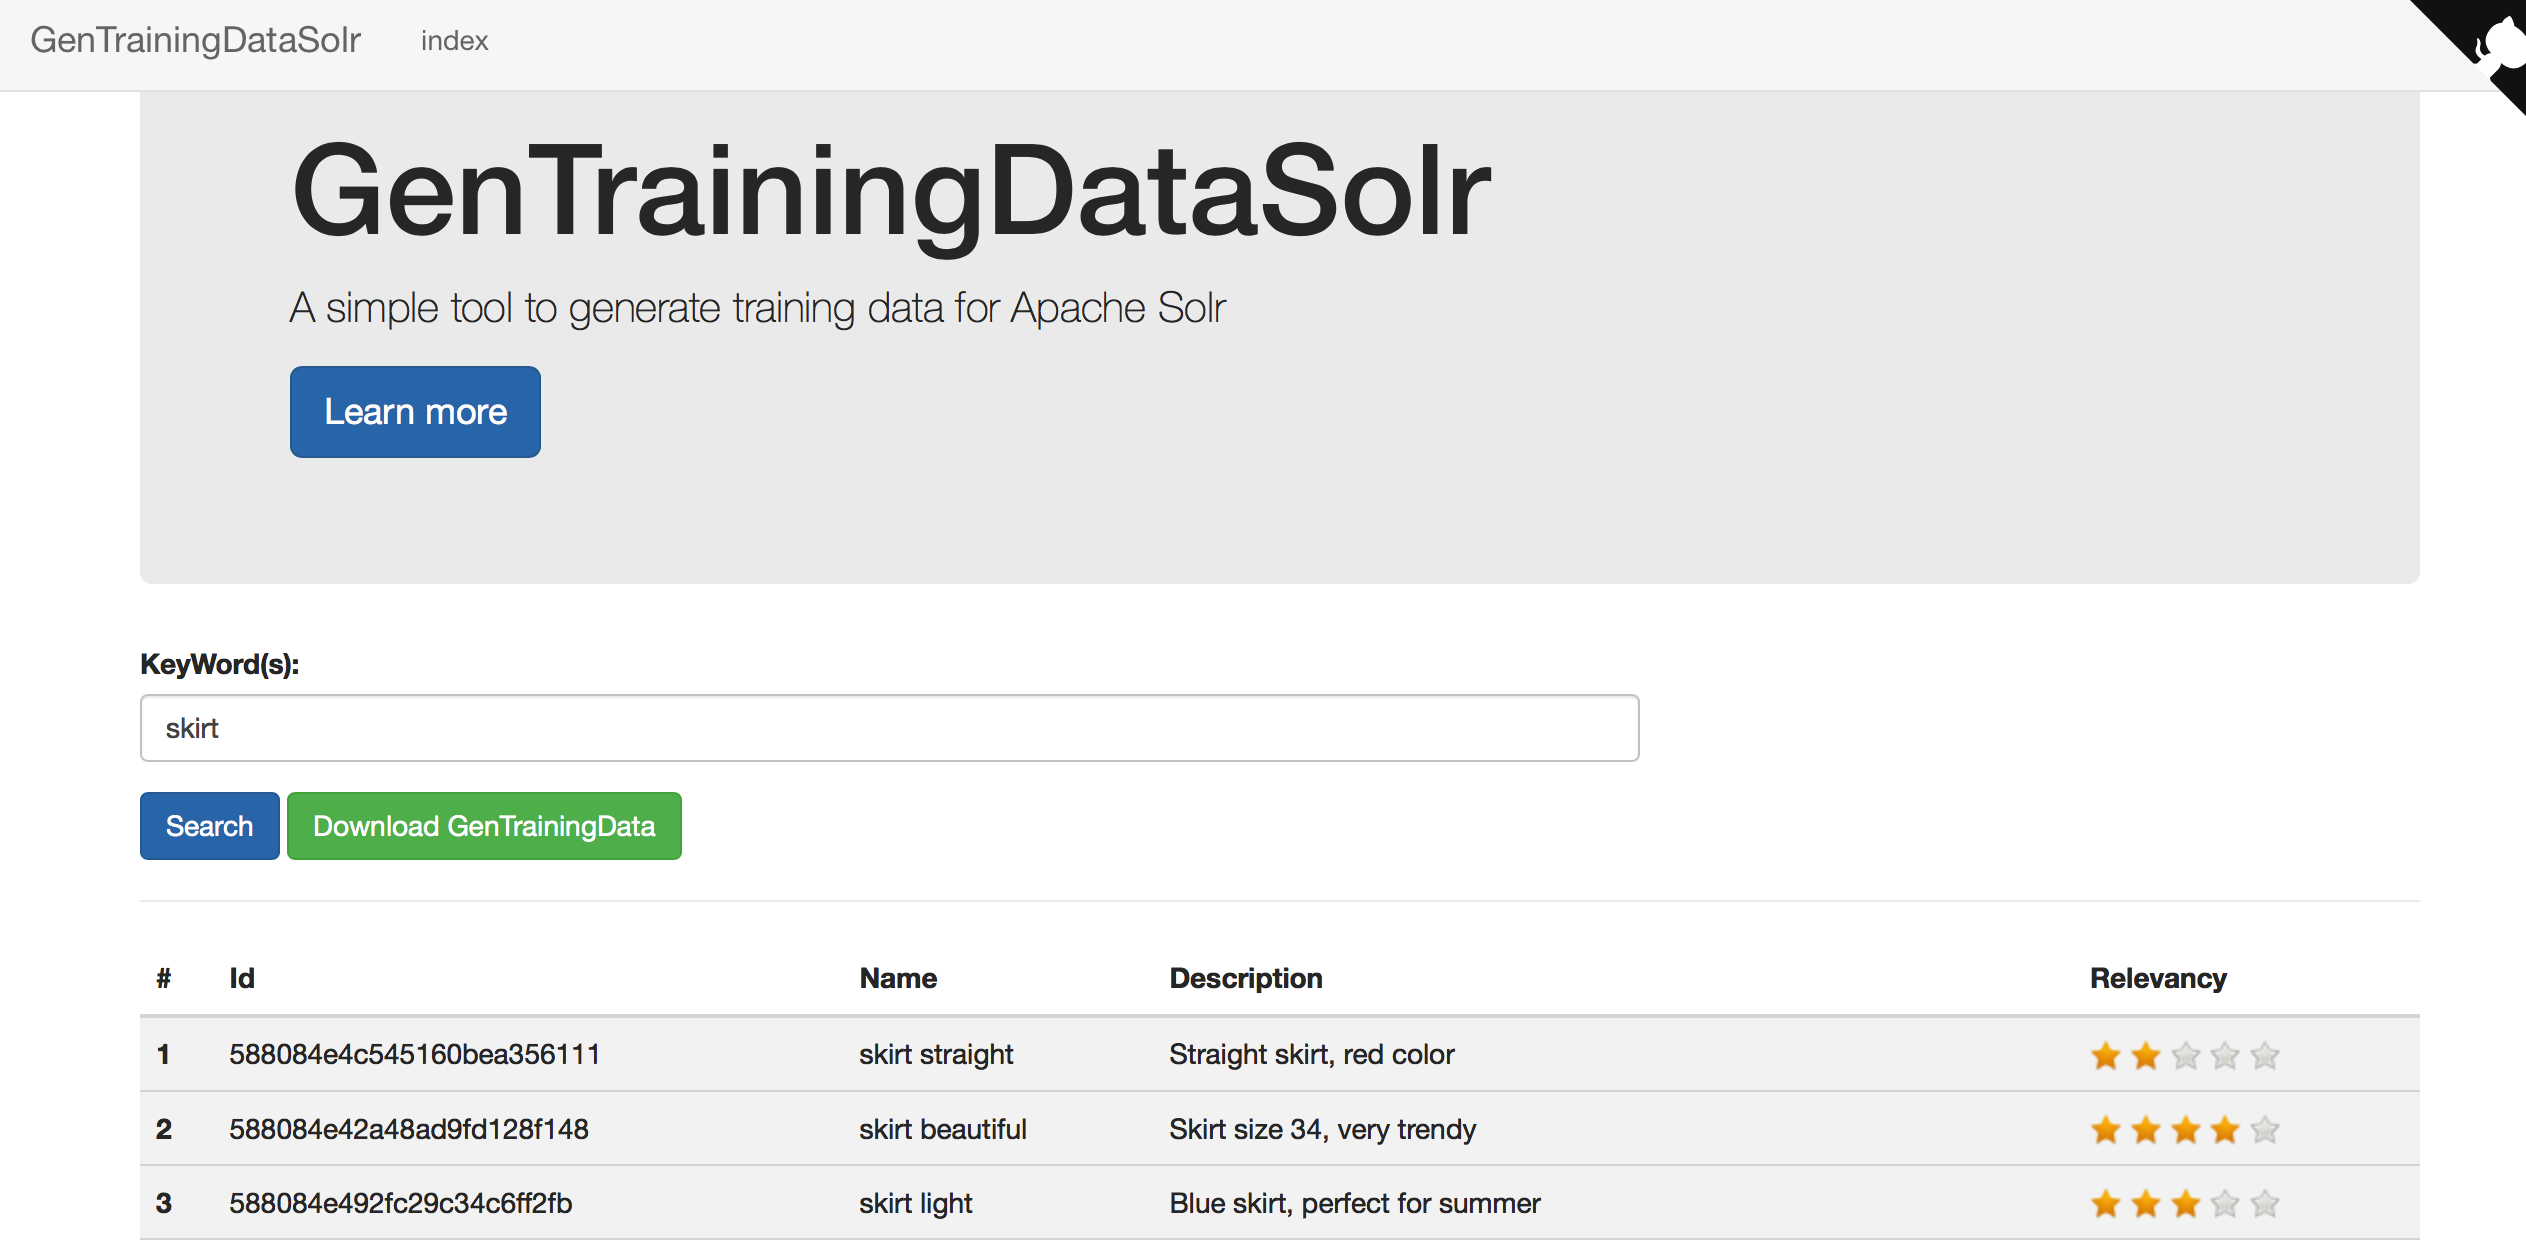
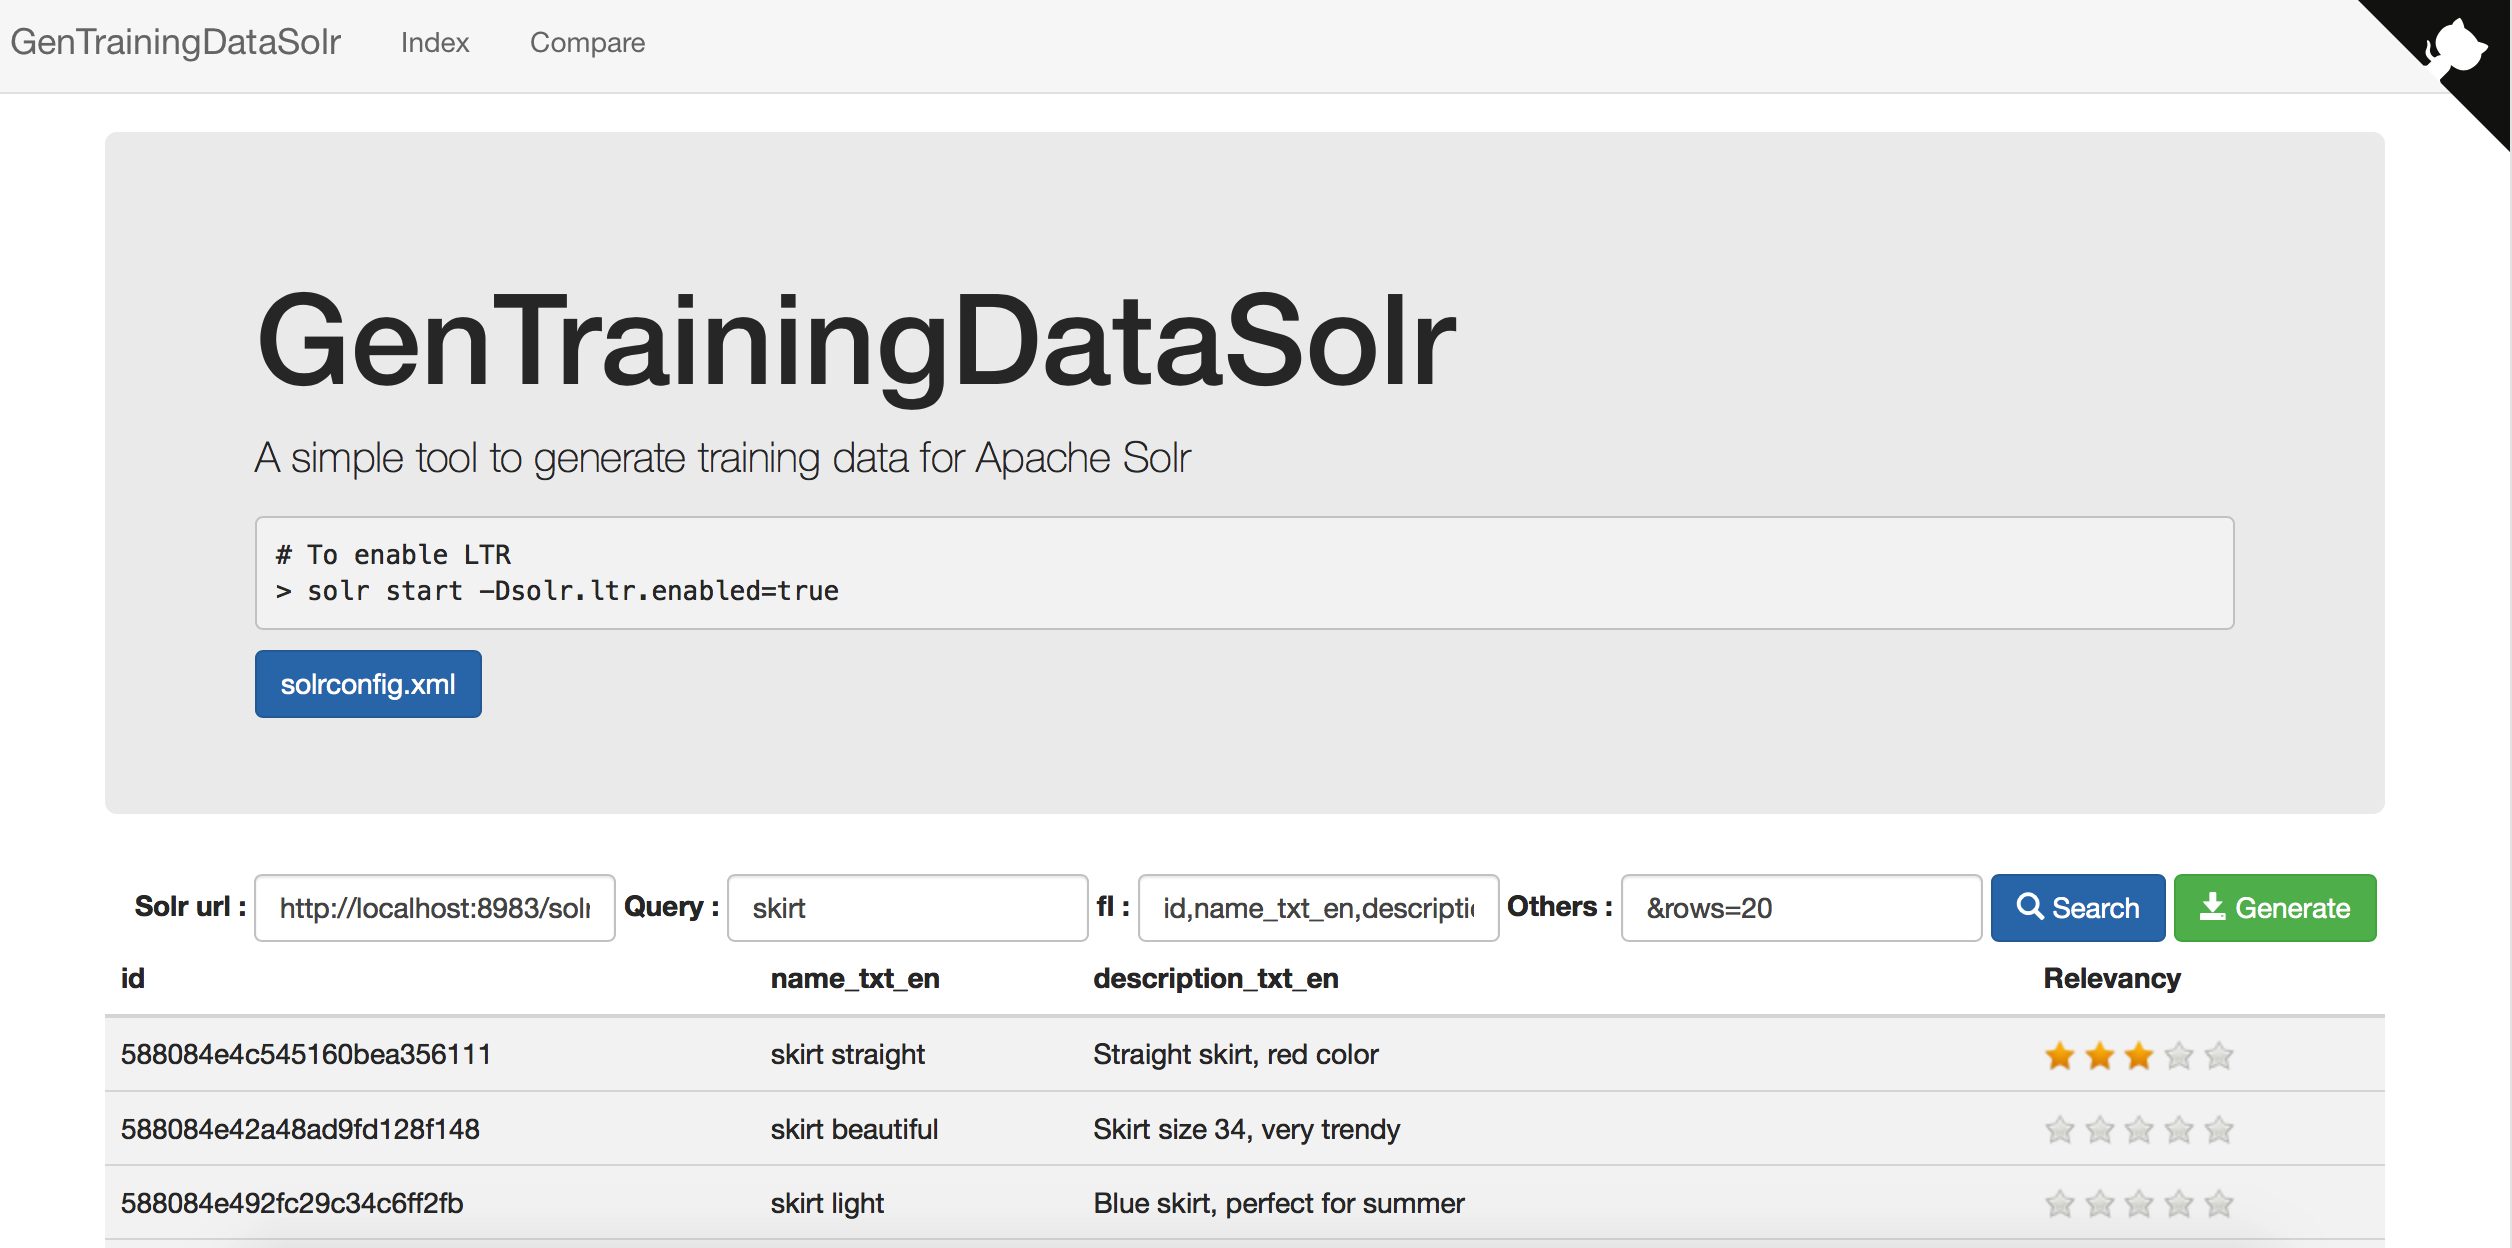
[Update] add compare && readme

diff --git a/server/public/js/app.js b/server/public/js/app.js
@@ -29,39 +29,50 @@ $('#search').on('click', function (e) {
   e.preventDefault()
   search()
 })
+
 $('#query').on('keyup', function (e) {
   var q = document.querySelector('input[id=query]').value
   if (q.indexOf('&') !== -1) {
     alert('Cant be used here!')
   }
 })
+
+$('#compare').on('click', function (e) {
+  e.preventDefault()
+  compare()
+})
+
+/**
+ * serach
+ */
 function search() {
   $('.table tbody tr').remove()
   $('.table thead tr').remove()
+
   var q = document.querySelector('input[id=query]').value
   var fl = document.querySelector('input[id=fl]').value
   var otherParams = document.querySelector('input[id=otherParams]').value
   var url = document.querySelector('input[id=url]').value
 
   //check query does not contain &.*
-  if(q.indexOf('&') != -1){
-    alert ("The query must only contain key words for your search");
+  if (q.indexOf('&') != -1) {
+    alert("The query must only contain key words for your search");
     return;
   }
-  if(otherParams.length!=0 &&  otherParams.indexOf("&")==-1){
-   alert("the other parameters must contain a &, like '&sort=id ASC' for example");
-   return;
+  if (otherParams.length != 0 && otherParams.indexOf("&") == -1) {
+    alert("the other parameters must contain a &, like '&sort=id ASC' for example");
+    return;
   }
-  if(otherParams.indexOf("&q=")!=-1){
-   alert("the other parameters must not contain a query, put it in the q field");
-   return;
-  } 
- 
-  $.get(url+'/select?indent=on&q=' + q + otherParams+ '&fl=' + fl + "&wt=json", function (data) {
-     var json = JSON.parse(data)
-     var docs = json.response.docs
-     var isFinished = false
-     docs.forEach(function (doc, index) {
+  if (otherParams.indexOf("&q=") != -1) {
+    alert("the other parameters must not contain a query, put it in the q field");
+    return;
+  }
+
+  $.get(url + '/select?indent=on&q=' + q + otherParams + '&fl=' + fl + "&wt=json", function (data) {
+    var json = JSON.parse(data)
+    var docs = json.response.docs
+    var isFinished = false
+    docs.forEach(function (doc, index) {
       index++
       if (!isFinished) {
         var thead = '<tr>'
@@ -85,12 +96,56 @@ function search() {
         start: 0,
         number: 5,
         click: function (score, e) {
-          socket.emit('getNote', { id:doc.id, query: q, score: score })
+          socket.emit('getNote', { id: doc.id, query: q, score: score })
         },
         target: '#hint' + index,
         starOff: 'imgs/star-off.png',
         starOn: 'imgs/star-on.png'
       })
-     }, this);
+    }, this);
+  })
+}
+
+/**
+ * compare
+ */
+function compare() {
+  // remove all table
+  $('.table tbody tr').remove()
+  $('.table thead tr').remove()
+
+  var q = document.querySelector('input[id=query]').value
+  var fl = document.querySelector('input[id=fl]').value
+  var rq = document.querySelector('input[id=rq]').value
+  var url = document.querySelector('input[id=url]').value
+
+  // http://localhost:8983/solr/corejouve/query?q=skirt&rq={!ltr%20model=jouvemodel%20reRankDocs=5}&fl=id,score,name_txt_en,[features]
+  $.get(url + '/query?indent=on&q=' + q + '&rq=' + rq + '&fl=' + fl + "&wt=json", function (data) {
+    var json = JSON.parse(data)
+    var docs = json.response.docs
+    console.log(docs);
+    var isFinished = false
+
+    docs.forEach(function (doc, index) {
+      index++
+      if (!isFinished) {
+        var thead = '<tr>'
+        for (var e in doc) {
+          thead = thead + '<th>' + e + '</th>'
+        }
+        thead = thead + '</tr>'
+        $('thead').append(thead)
+        isFinished = true
+      }
+
+      var tr = '<tr class="active">'
+      for (var e in doc) {
+        tr = tr + '<td>' + doc[e] + '</td>'
+      }
+      tr = tr + '</tr>'
+
+      $('#ltr').append(tr)
+
+    }, this);
   })
 }

diff --git a/README.md b/README.md
@@ -1,5 +1,14 @@
 # GenTrainingDataSolr
 
+## Quick start
+
+```bash
+cd server
+npm install
+npm start
+```
+![](./imgs/1.png)
+
 ## Enable CORS in Apache Solr
 
 Add this code in `server/solr-webapp/webapp/WEB-INF/web.xml`
@@ -34,12 +43,3 @@ Add this code in `server/solr-webapp/webapp/WEB-INF/web.xml`
   <url-pattern>/*</url-pattern>
 </filter-mapping>
 ```
-
-## Quick start
-
-```bash
-npm install
-npm run
-```
-
-![](./imgs/1.png)
